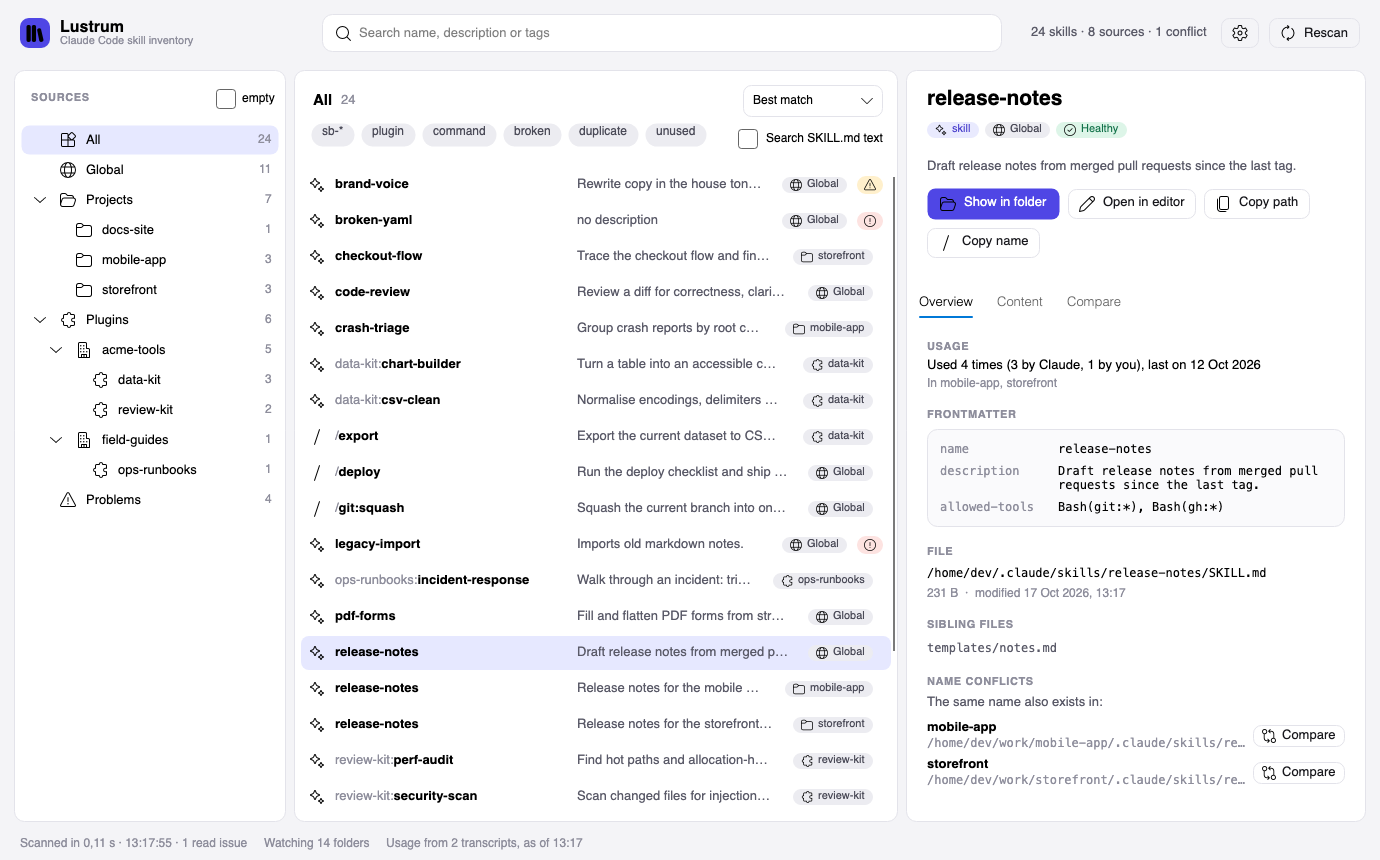
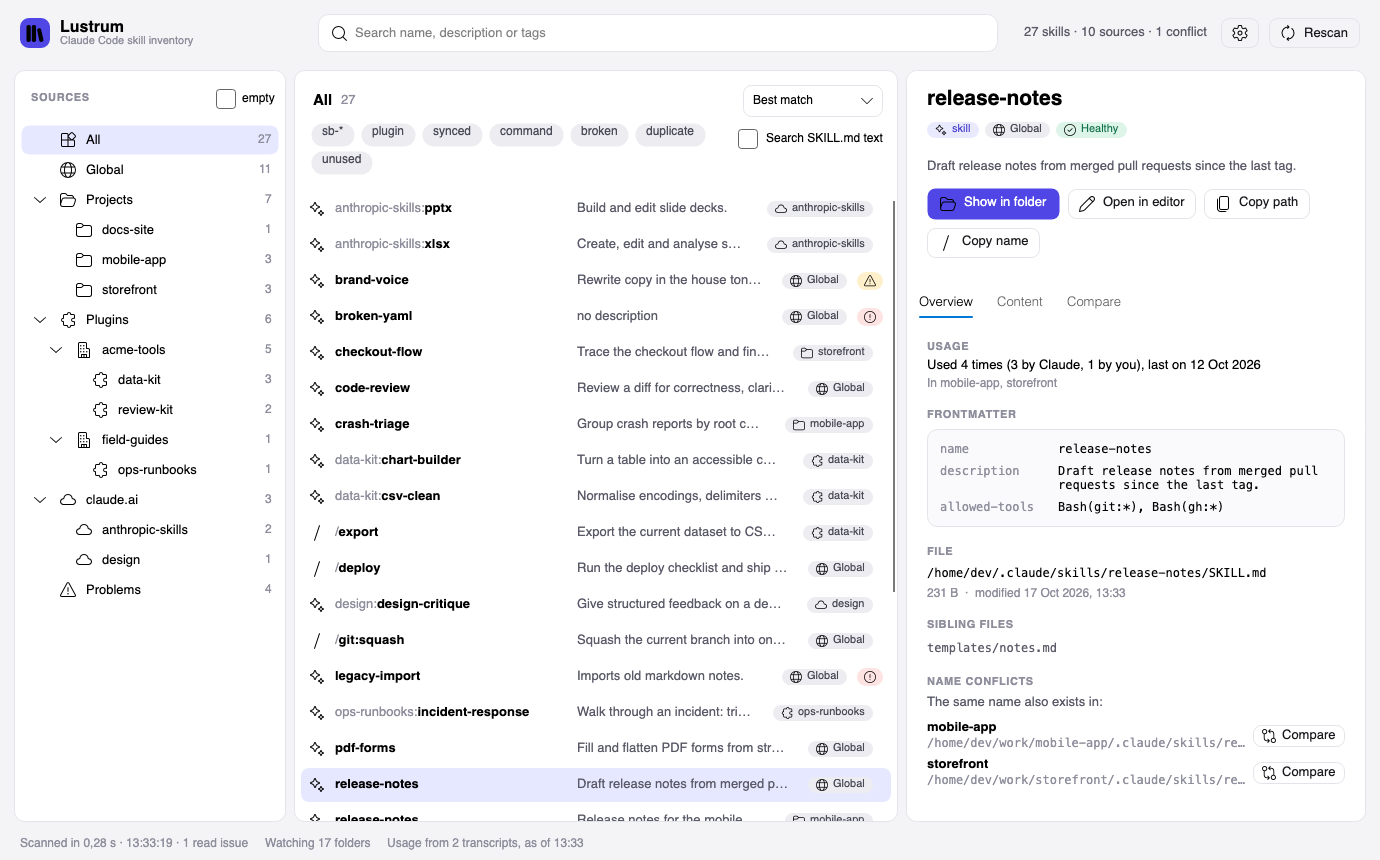
docs: describe claude.ai synced sources and refresh screenshots

diff --git a/tools/Lustrum.Screenshots/DemoHome.cs b/tools/Lustrum.Screenshots/DemoHome.cs
@@ -64,15 +64,16 @@ internal sealed partial class DemoHome : IDisposable
         GlobalSkills();
         Projects();
         Plugins();
+        Synced();
         Transcripts();
     }
 
     private void GlobalSkills()
     {
         Skill(Claude, "code-review", "Review a diff for correctness, clarity and risk, with findings ranked by severity.",
-            "allowed-tools: Read, Grep, Bash(git:*)\n", CodeReviewBody, "checklists/security.md", "checklists/performance.md", "scripts/diff-stats.sh");
+            "allowed-tools: Read, Grep, Bash(git:*)\n", CodeReviewBody, false, "checklists/security.md", "checklists/performance.md", "scripts/diff-stats.sh");
         Skill(Claude, "release-notes", "Draft release notes from merged pull requests since the last tag.",
-            "allowed-tools: Bash(git:*), Bash(gh:*)\n", null, "templates/notes.md");
+            "allowed-tools: Bash(git:*), Bash(gh:*)\n", null, false, "templates/notes.md");
         Skill(Claude, "sql-helper", "Write and explain SQL, check query plans and suggest indexes.");
         Skill(Claude, "sb-daily-notes", "Capture the day as short structured notes and carry open items forward.");
         Skill(Claude, "sb-meeting-prep", "Prepare an agenda and talking points from the attendee list and previous notes.");
@@ -121,6 +122,17 @@ internal sealed partial class DemoHome : IDisposable
         Write(Path.Combine(Claude, "plugins", "installed_plugins.json"), JsonSerializer.Serialize(new { version = 2, plugins = _plugins }));
     }
 
+    private void Synced()
+    {
+        var account = Path.Combine(Claude, "skills", "synced", "demo-account");
+        Skill(account, "xlsx", "Create, edit and analyse spreadsheets with formulas and charts.", layoutFlat: true);
+        Skill(account, "pptx", "Build and edit slide decks.", layoutFlat: true);
+        Write(Path.Combine(account, "manifest.json"), "{}");
+        var plugin = Path.Combine(Claude, "plugins", "synced", "demo-account", "design~g2");
+        Write(Path.Combine(plugin, ".claude-plugin", "plugin.json"), JsonSerializer.Serialize(new { name = "design" }));
+        Skill(plugin, "design-critique", "Give structured feedback on a design: hierarchy, contrast, spacing, copy.");
+    }
+
     private void Transcripts()
     {
         var store = Work("storefront");
@@ -131,7 +143,8 @@ internal sealed partial class DemoHome : IDisposable
             User("release-notes", store, "2026-10-12T11:05:00Z"),
             Model("code-review", store, "2026-10-10T10:00:00Z"),
             User("deploy", store, "2026-10-11T17:30:00Z"),
-            Model("data-kit:csv-clean", store, "2026-09-20T08:00:00Z"));
+            Model("data-kit:csv-clean", store, "2026-09-20T08:00:00Z"),
+            Model("anthropic-skills:xlsx", store, "2026-10-08T14:00:00Z"));
         Transcript(mobile,
             Model("release-notes", mobile, "2026-10-05T13:00:00Z"),
             Model("code-review", mobile, "2026-10-14T09:00:00Z"),
@@ -181,9 +194,9 @@ internal sealed partial class DemoHome : IDisposable
         message = new { role = "user", content = $"<command-name>/{command}</command-name>" },
     }, LikeClaudeCode);
 
-    private static void Skill(string root, string name, string description, string extra = "", string? body = null, params string[] files)
+    private static void Skill(string root, string name, string description, string extra = "", string? body = null, bool layoutFlat = false, params string[] files)
     {
-        var folder = Path.Combine(root, "skills", name);
+        var folder = layoutFlat ? Path.Combine(root, name) : Path.Combine(root, "skills", name);
         Write(Path.Combine(folder, "SKILL.md"), $"---\nname: {name}\ndescription: {JsonSerializer.Serialize(description)}\n{extra}---\n{body ?? $"# {name}\n\n{description}\n"}");
         foreach (var file in files)
         {

diff --git a/README.md b/README.md
@@ -6,7 +6,7 @@
 
 **A census of every Claude Code skill on your machine.**
 
-Global skills, per-project skills, plugin skills and slash commands, in one window.<br/>
+Global, project, plugin and claude.ai-synced skills and slash commands, in one window.<br/>
 Read-only towards Claude Code: nothing is written to `~/.claude`.
 
 [![CI](https://github.com/sburdenko/lustrum/actions/workflows/ci.yml/badge.svg)](https://github.com/sburdenko/lustrum/actions/workflows/ci.yml)
@@ -57,7 +57,7 @@ cd lustrum
 
 dotnet run --project src/Lustrum.App                   # the window
 dotnet run --project src/Lustrum.Cli -- list           # the same data in the terminal
-dotnet test                                            # 225 tests
+dotnet test                                            # 244 tests
 ```
 
 The window is developed on macOS. CI builds and tests on Ubuntu, macOS and Windows.
@@ -66,11 +66,11 @@ The window is developed on macOS. CI builds and tests on Ubuntu, macOS and Windo
 
 | | |
 |---|---|
-| **Source tree** | All, Global, Projects, Plugins (marketplace, then plugin), Problems. Every node has a count; disabled plugins and empty projects are dimmed. |
+| **Source tree** | All, Global, Projects, Plugins (marketplace, then plugin), claude.ai (skills and plugins synced from your account), Problems. Every node has a count; disabled plugins and empty projects are dimmed. |
 | **Effective set** | Pick a project and tick **Effective set**: the list shows exactly what that project loads, marks skills that are shadowed and says what overrides what. |
 | **Skill list** | Name with plugin prefix, description, source, health marker. Sort by best match, name, source or date. |
 | **Search** | Fuzzy on names, substring on descriptions and tags, ranked by relevance. Optionally searches the text of every `SKILL.md`. |
-| **Filter chips** | One chip per own prefix (`sb-*` by default), plus `plugin`, `command`, `broken`, `duplicate` and `unused`. Chips combine. |
+| **Filter chips** | One chip per own prefix (`sb-*` by default), plus `plugin`, `synced`, `command`, `broken`, `duplicate` and `unused`. Chips combine. |
 | **Usage** | How often each skill was used, by Claude or by you, when last and in which projects, read from Claude Code transcripts. Sort by last use. |
 | **Problems** | One list of broken skills (with the YAML line and cause), over-long descriptions, projects whose folder is gone and paths that could not be read. |
 | **Skill card** | Description, health, usage, parsed frontmatter, file path, sibling files, name conflicts, rendered `SKILL.md`. |
@@ -118,6 +118,8 @@ rebuilds them in `docs/`.
 | Global commands | `~/.claude/commands/**/*.md` (up to 3 levels) | file path without `.md`, folders joined with `:` (`git/squash.md` is `/git:squash`) |
 | Project skills and commands | `<project>/.claude/skills`, `<project>/.claude/commands` | same rules as global |
 | Plugins | the `installPath` of every entry in `~/.claude/plugins/installed_plugins.json` | `<plugin>:<name>` |
+| claude.ai skills | `~/.claude/skills/synced/<account>/<folder>/SKILL.md` | `anthropic-skills:<name>` |
+| claude.ai plugins | `~/.claude/plugins/synced/<account>/<plugin>/` (newest `~gN` generation) | `<plugin>:<name>` |
 
 **Which projects.** Lustrum merges three lists by normalised path:
 
@@ -134,6 +136,12 @@ Problems list shows it.
 `~/.claude/plugins/cache/<marketplace>/<plugin>/<version>` and ignores versions that carry an `.orphaned_at` marker.
 A plugin set to `false` under `enabledPlugins` in `~/.claude/settings.json` is shown as disabled and left out of
 every effective set.
+
+**claude.ai skills and plugins.** The Claude desktop app syncs the skills and plugins of your claude.ai account,
+including Anthropic's own skills such as `xlsx` or `skill-creator`, into `~/.claude/skills/synced` and
+`~/.claude/plugins/synced`. Lustrum lists them as source kind `Synced`, under the same names Claude uses to invoke
+them. Plugin folders can exist in several generations (`design`, `design~g2`); the highest one is read. Folders
+starting with a dot, such as `.staging`, are skipped. Synced skills are part of every effective set.
 
 **Project folder names.** `~/.claude/projects` stores each path with every non-alphanumeric character replaced
 by `-`. That mapping is lossy (`my-app`, `my_app` and `my/app` encode the same), so `ProjectPathDecoder`
@@ -204,12 +212,15 @@ Conflict(Name, Skills)
 ScanResult(Sources, Skills, Conflicts, Issues, ScannedAt, Duration)
 ```
 
-- `SourceKind`: `Global`, `Project`, `Plugin`. `SkillKind`: `Skill`, `Command`.
+- `SourceKind`: `Global`, `Project`, `Plugin`, `Synced`. `SkillKind`: `Skill`, `Command`.
+- `SkillSource.Namespace` is the prefix of plugin and synced skills; `Layout` says whether skills sit in
+  `skills/<name>/` or directly in the source folder.
 - `Skill.Id` is `<source id>#<path relative to the source root>`. It is unique inside a scan and survives
   a frontmatter rename.
-- `FullName` carries the plugin prefix (`unity:ui`). Plugin skills are always prefixed, so they never
-  produce a conflict.
-- `Skill.Tags` are computed: own-prefix tags, `plugin`, `command`, `broken`, `duplicate`.
+- `FullName` carries the prefix (`unity:ui`, `anthropic-skills:xlsx`). Conflicts are keyed by full name for
+  prefixed skills and by short name otherwise, so `unity:ui` and a global `ui` do not collide, while two copies of
+  `design:critique` (say, an installed and a synced plugin) do.
+- `Skill.Tags` are computed: own-prefix tags, `plugin`, `synced`, `command`, `broken`, `duplicate`.
 
 ### Health
 
@@ -232,10 +243,9 @@ top of the file.
 
 ### Effective set
 
-`EffectiveSetBuilder.Build(scan, project)` takes that project's skills, the global skills and the skills of
-enabled plugins. Within one name, a project skill wins over a global one: the winner is `Active` and lists what
-it overrides, the loser is `Shadowed` and points at the winner. Plugin skills are always prefixed, so they are
-never shadowed. Skills from other projects are not part of the set.
+`EffectiveSetBuilder.Build(scan, project)` takes that project's skills, the global skills, the skills of
+enabled plugins and the skills synced from claude.ai. Within one name, a project skill wins over a global one: the winner is `Active` and lists what
+it overrides, the loser is `Shadowed` and points at the winner. Prefixed skills are never shadowed. Skills from other projects are not part of the set.
 
 ### Search and scopes
 
@@ -248,7 +258,7 @@ which skills it includes.
 | `KindScope(kind)` | all skills from global, project or plugin sources |
 | `SourceScope(id)` | one project or one plugin |
 | `MarketplaceScope(name)` | every plugin from one marketplace |
-| `EffectiveScope(projectId)` | that project, global skills and enabled plugins |
+| `EffectiveScope(projectId)` | that project, global skills, enabled plugins and synced skills |
 | `ProblemsScope` | anything with a health problem, including `DescriptionTooLong` |
 
 `SkillIndex.Search(skills, new SkillQuery(scope, text, requiredTags))` applies the scope and the tags, then the
@@ -287,11 +297,13 @@ other one. The CLI prints the same diff in unified format.
 
 ### Live updates
 
-`WatchTargets` picks what to watch. Skill and command folders and the plugin cache are watched recursively.
+`WatchTargets` picks what to watch. Skill and command folders (including those of synced plugins) and the plugin
+cache are watched recursively.
 `~/.claude/plugins`, `~/.claude/projects` and each project's `.claude` are watched without subfolders, and
 `~/.claude` itself only for `settings.json`, `skills` and `commands`, because Claude Code writes transcripts,
 history and worktrees there constantly. `~/.claude.json` is not watched for the same reason; a new project still shows
-up, because Claude Code creates its folder in `~/.claude/projects`.
+up, because Claude Code creates its folder in `~/.claude/projects`. Events inside folders whose name starts with a
+dot (`.staging` during a sync, `.DS_Store`) are ignored.
 
 `SkillTreeWatcher` debounces events by 500 ms. It falls back to polling a fingerprint every 30 s when there are
 more folders than the platform handles comfortably (64 on Linux, where each watcher is an inotify instance, 256
@@ -333,7 +345,7 @@ data. **Open logs** in the settings panel opens the folder.
 ## CLI
 
 ```text
-lustrum list [--json] [--source global|project|plugin] [--broken] [--project <folder>] [--usage] [--unused]
+lustrum list [--json] [--source global|project|plugin|synced] [--broken] [--project <folder>] [--usage] [--unused]
 lustrum diff <name>
 ```
 
@@ -402,7 +414,7 @@ lustrum/
 
 ## Tests
 
-225 xUnit tests with FluentAssertions. Core tests do not scan your real `~/.claude`: `FakeClaudeHome` builds a
+244 xUnit tests with FluentAssertions. Core tests do not scan your real `~/.claude`: `FakeClaudeHome` builds a
 throw-away home directory with skills, commands, plugin registry, settings, project folders and `~/.claude.json`,
 and the scanner runs against it. That makes the awkward cases cheap to cover: colliding project keys, malformed
 registry files, unreadable folders, folders with dashes and dots in their names, frontmatter with a BOM and tabs,
@@ -424,7 +436,8 @@ dotnet test
 
 ## Limitations
 
-- Only files on disk are visible. Skills managed in claude.ai settings and skills bundled with Claude are not listed.
+- Only files on disk are visible. claude.ai skills appear only where the Claude desktop app has synced them, and
+  the synced layout is not documented by Anthropic.
 - The effective set follows two rules: project over global for the same name, and plugins only when enabled in the
   user-level `~/.claude/settings.json`. Project-level settings files are not read.
 - The window has only been run on macOS; on Windows and Linux only the tests run in CI.

diff --git a/docs/claude-code-layout.md b/docs/claude-code-layout.md
@@ -55,6 +55,23 @@ Only an explicit `false` counts as disabled; a plugin that is not listed is trea
 
 Code: `PluginDiscovery` (registry, cache fallback, `enabledPlugins`).
 
+## Synced from claude.ai
+
+The Claude desktop app copies the skills and plugins of the signed-in claude.ai account to disk:
+
+```text
+~/.claude/skills/synced/<account>/<name>/SKILL.md     invoked as anthropic-skills:<name>
+~/.claude/skills/synced/<account>/manifest.json
+~/.claude/skills/synced/<account>/.staging/           in-progress sync, ignored
+~/.claude/plugins/synced/<account>/<plugin>/          same layout as an installed plugin
+~/.claude/plugins/synced/<account>/<plugin>~g2/       a newer generation of the same plugin
+```
+
+A plugin folder may be named after the plugin or after an id; the name comes from `.claude-plugin/plugin.json`.
+When several generations exist, Lustrum reads the highest `~gN` (no suffix counts as 1).
+
+Code: `SyncedDiscovery`.
+
 ## Projects
 
 Two places know about projects:
